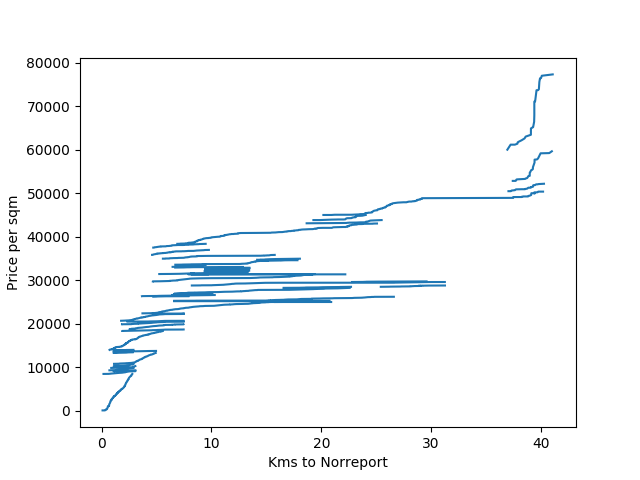
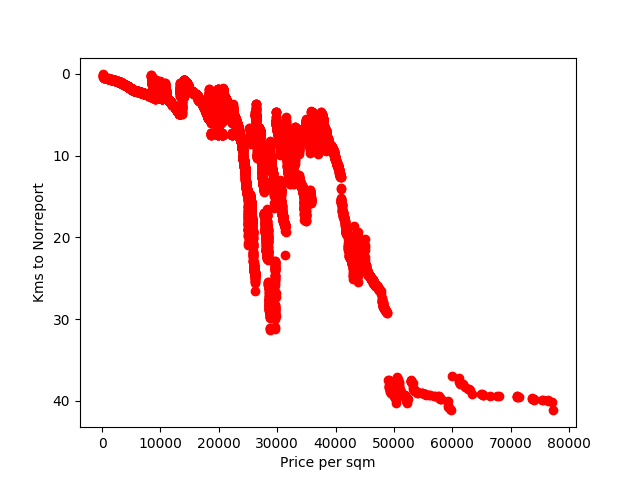
few corrections to norreport plot, but it still looks completely weird

diff --git a/assignment-4/2d_plot_norreport.py b/assignment-4/2d_plot_norreport.py
@@ -38,12 +38,12 @@ for d in data_set[['lat', 'lon', 'price_per_sq_m']].values:
     y.append(d[2])
     x.append(haversine_distance(norreport, (d[0],d[1])))
 
-
+#can use [::-1] to reverse sort the y values, but it still looks wrong..
 y.sort()
 x.sort()
 
 plt.plot(x,y)
 plt.ylabel('Price per sqm')
 plt.xlabel('Kms to Norreport')
-
+plt.gca().invert_yaxis()
 plt.show()
